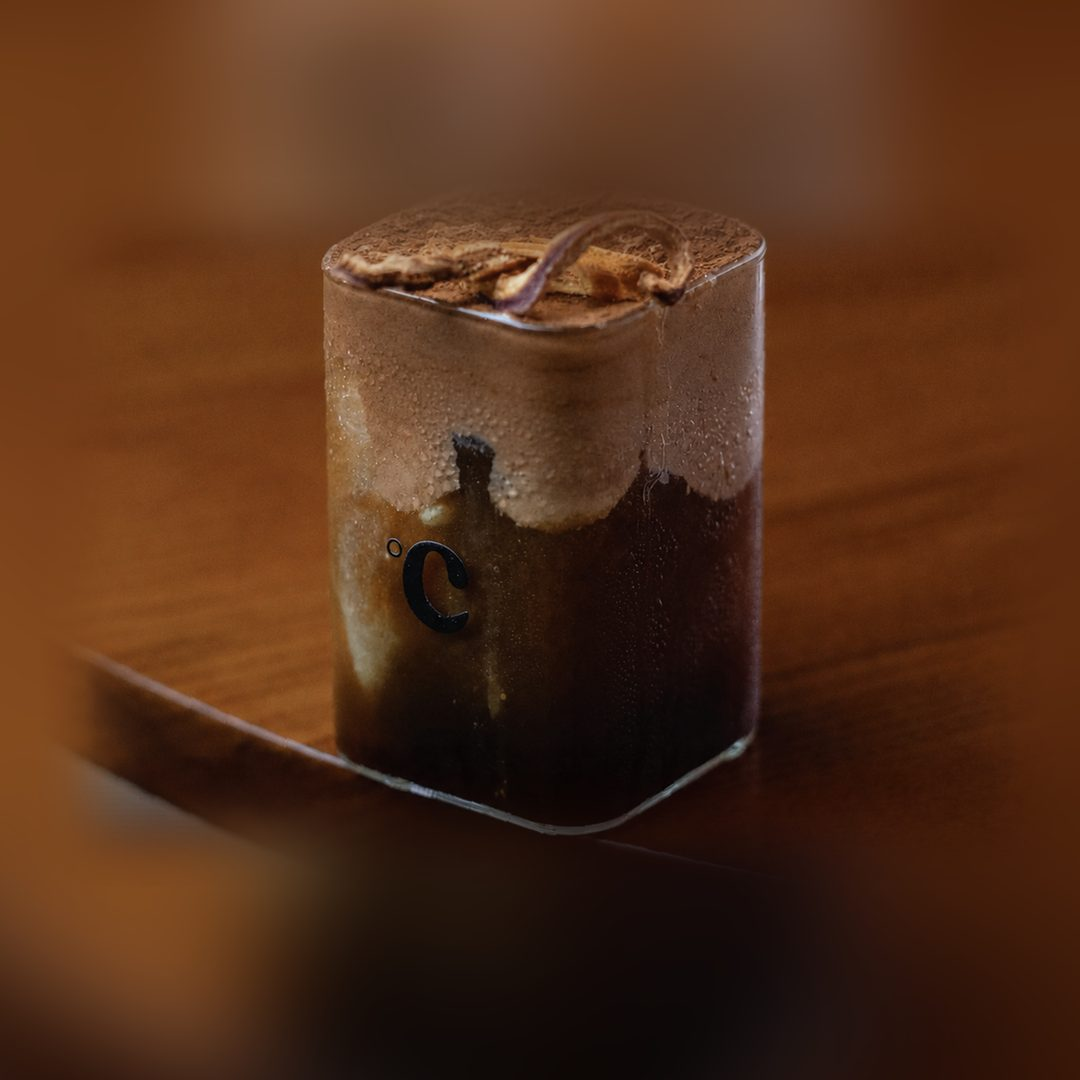
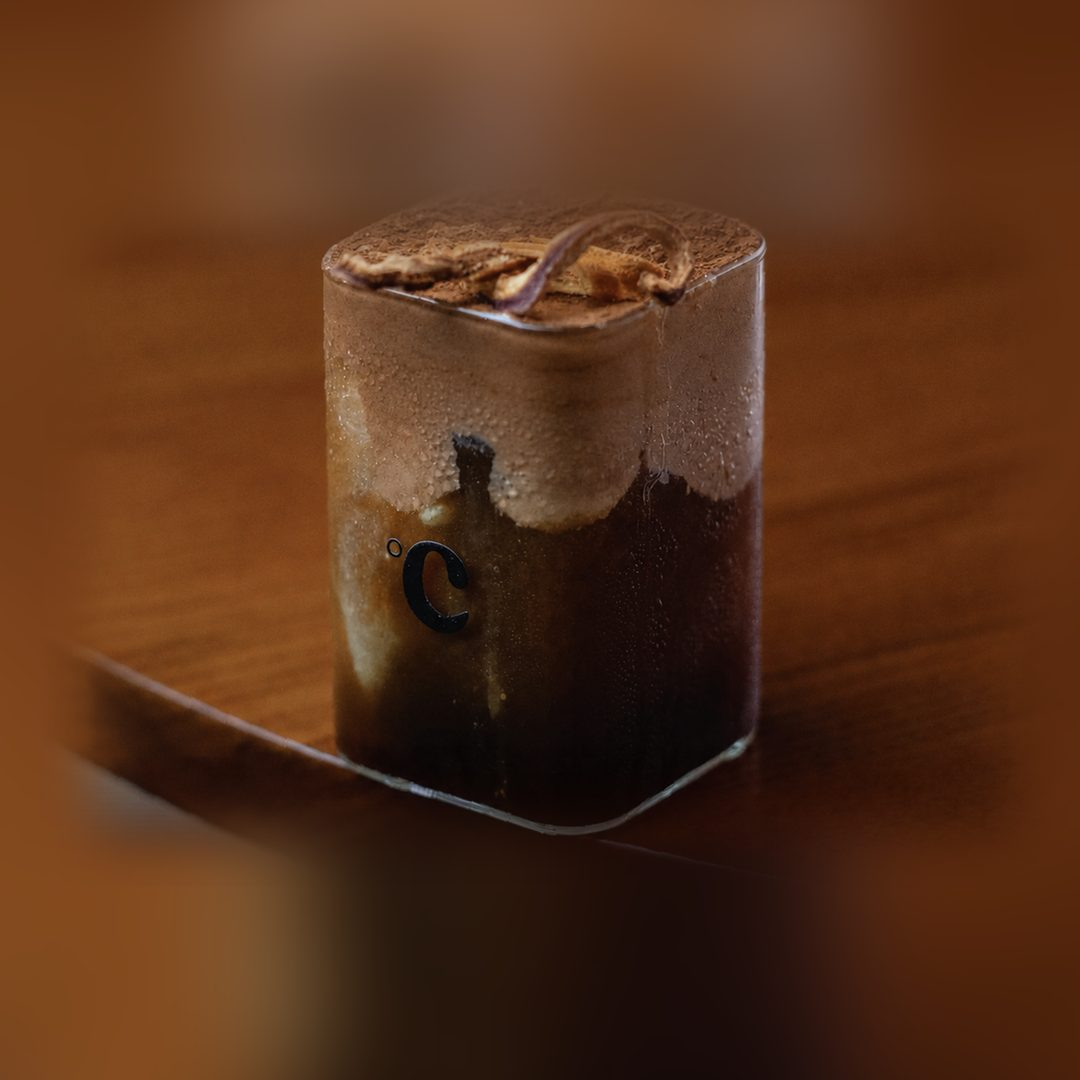
docs: ease the drink down in scale on the splash
At 68% of the frame width the glass crowded a 1080x2340 screen. It now sits at
about 53%, with air around it and clear of the copy block.

Getting there needed the plate itself to grow, 3700 -> 4400 tall: the window
had already hit the plate's ceiling, so opening it further was impossible and
the first attempt only bought 11% while pushing the glass down into the text.
The real photo is pasted at a fixed offset, so a taller plate extends the
synthesized surround without moving anything real -- every other surface
regenerates with its glass in exactly the same place, which the per-surface
figures confirm.

Claude-Session: https://claude.ai/code/session_01Gx9rk3QaLJo6PzQNAAvZBH

Changed region(s): [[0.0, 0.825, 0.3667, 1.0], [0.7639, 0.7944, 0.9472, 1.0]]

diff --git a/docs/design/assets/choc-blanc/canvas/make-heroes.py b/docs/design/assets/choc-blanc/canvas/make-heroes.py
@@ -19,7 +19,7 @@ from PIL import Image, ImageFilter
 SRC   = "choc_blanc_a4_300dpi.png"
 CLEAN = (0, 400, 2483, 2100)      # A4 photo area, below the baked header rule
 GLASS = (690, 415, 1720, 1935)    # glass bbox within the A4
-PW, PH = 3600, 3700               # plate: room for a full-bleed window at any aspect
+PW, PH = 3600, 4400               # plate: room for a full-bleed window at any aspect
 GLASS_TOP = 900                   # where the glass top lands in the plate
 
 a4  = Image.open(SRC).convert("RGB")
@@ -49,7 +49,7 @@ OUT = os.path.dirname(os.path.abspath(__file__))
 SURFACES = {
     # in-app surfaces
     "hero-home.jpg":   ((1200, 1121), 2500, 490, 0.0),
-    "hero-splash.jpg": ((1080, 2340), 3300, 500),
+    "hero-splash.jpg": ((1080, 2340), 4200, 900),
     "hero-pos.jpg":    ((920, 1200),  3000, 450),
     # social
     "hero-ig-feed.jpg":   ((1080, 1350), 2900, 430),
